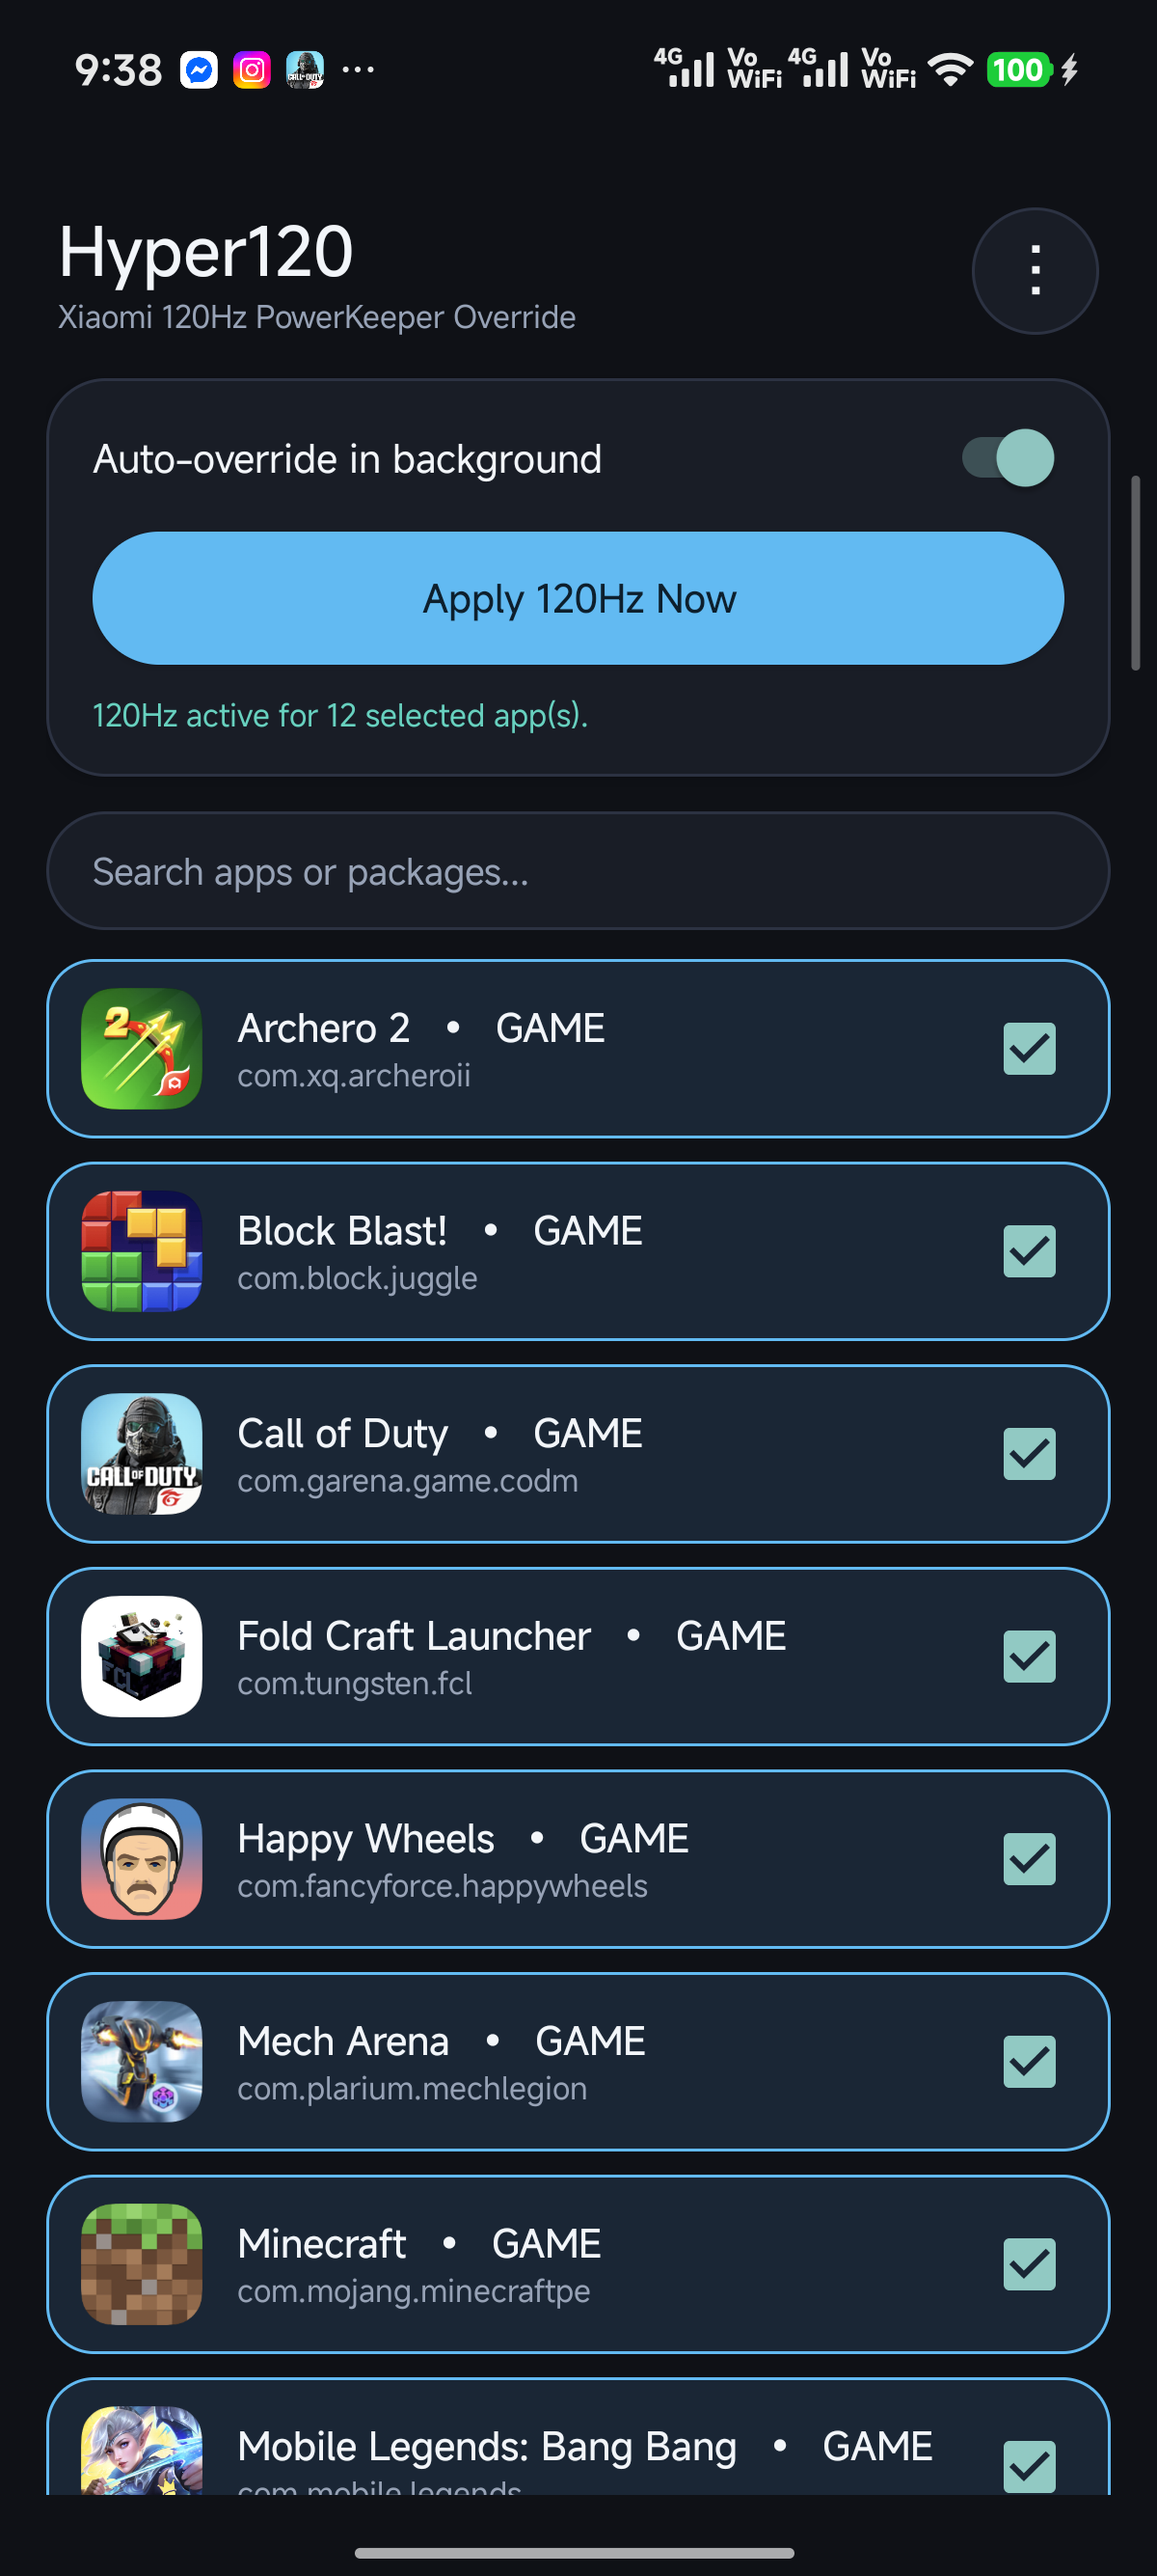
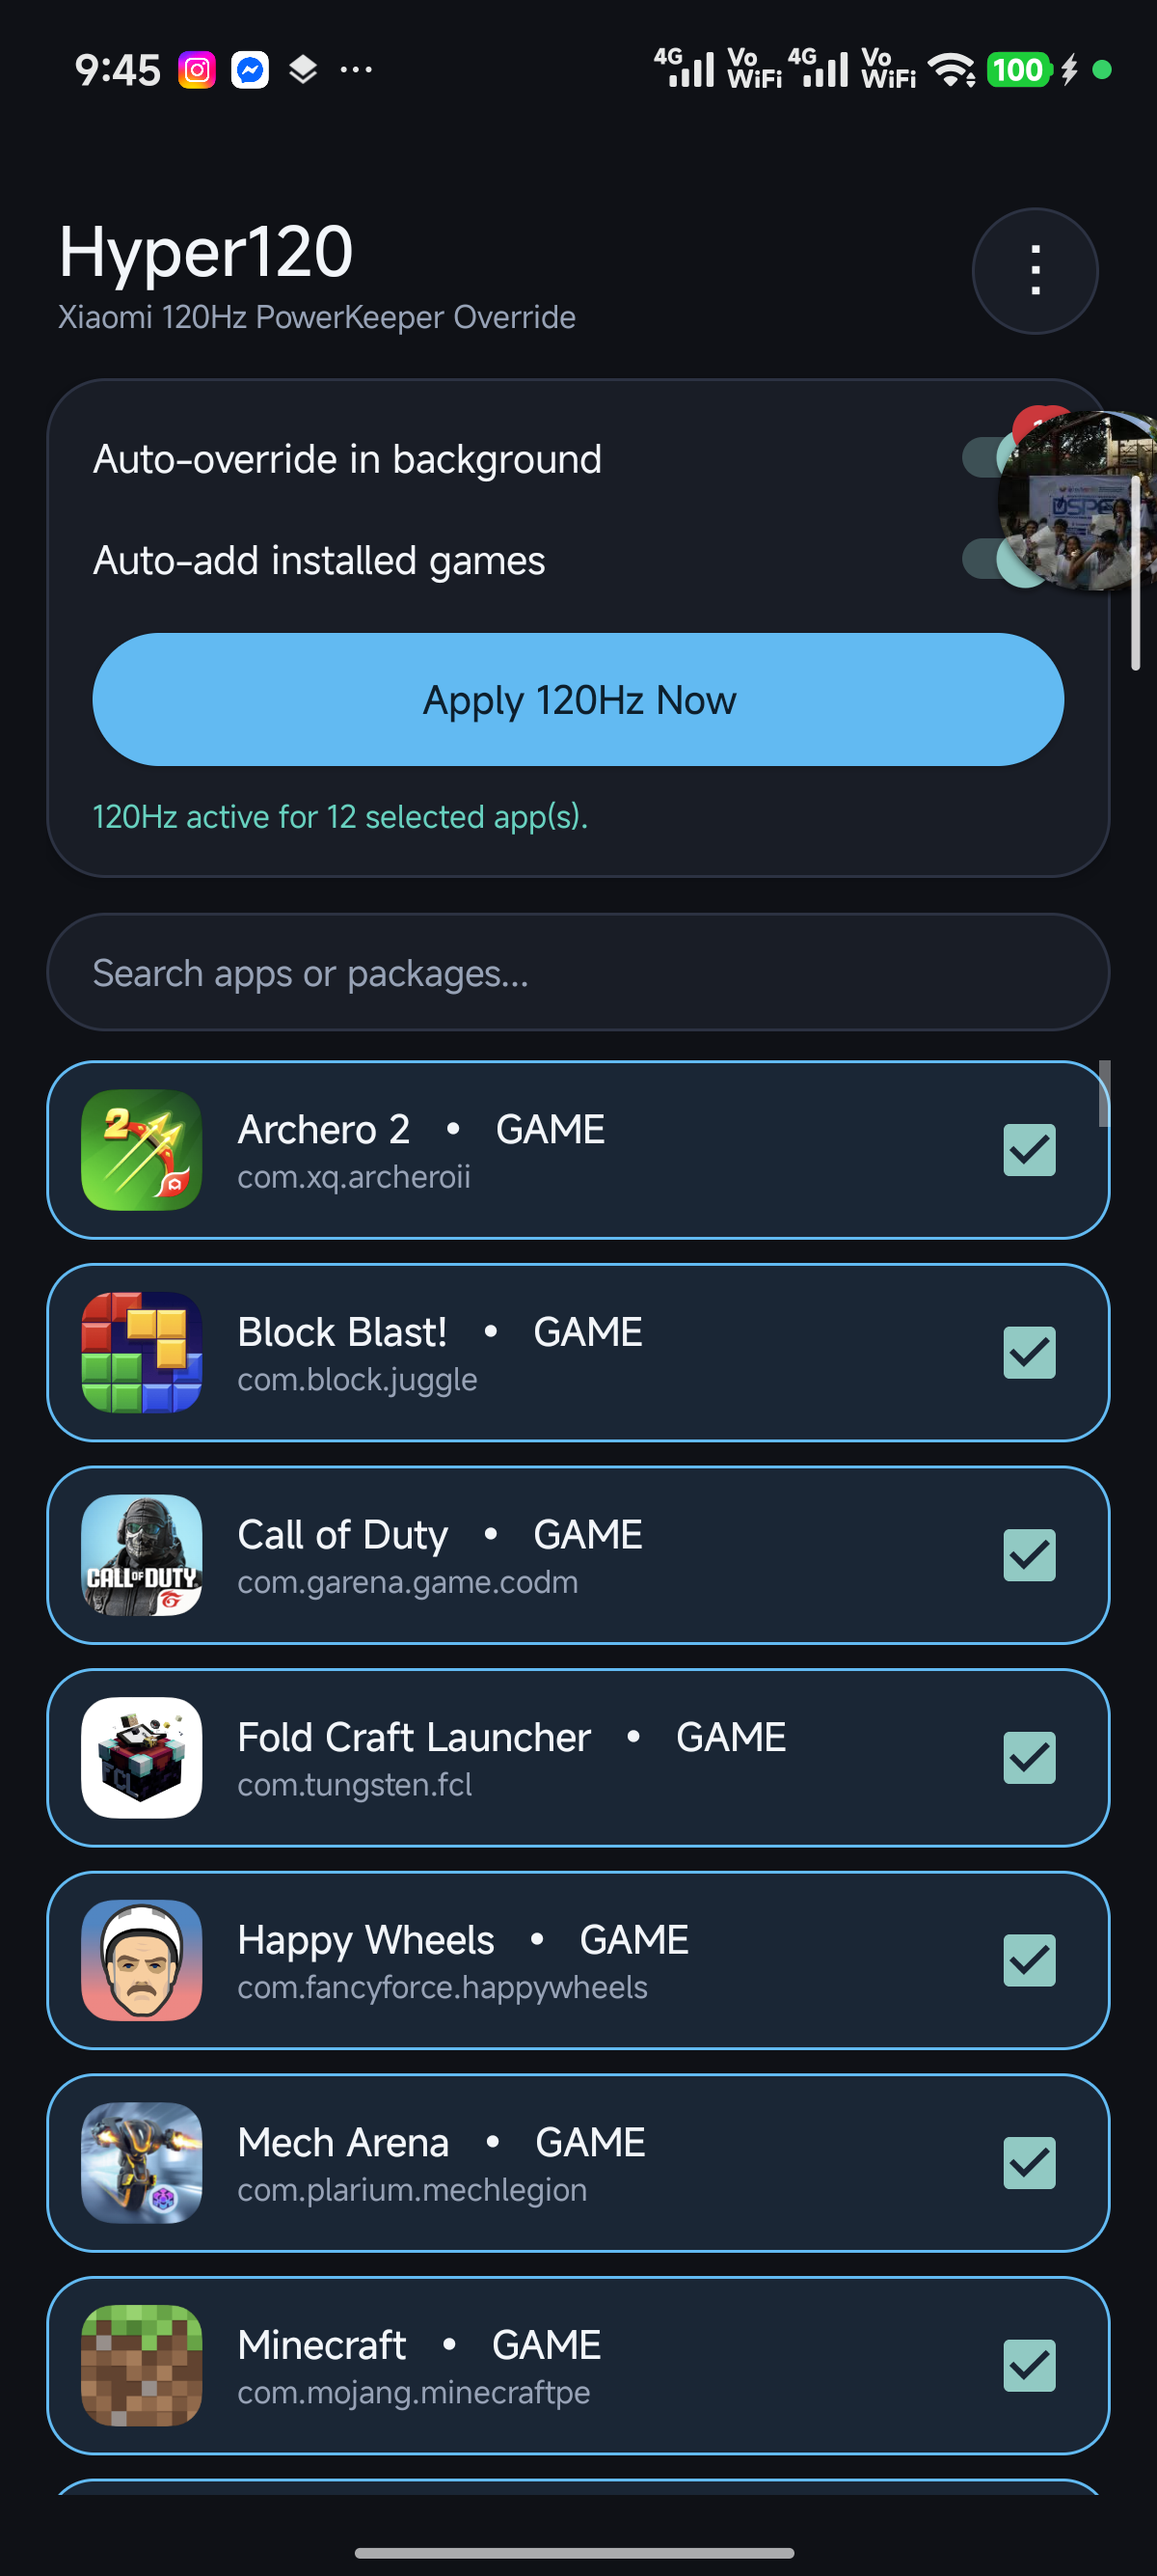
v3.3: Auto-add installed games, install guide, and latest game screenshots

diff --git a/src/com/custom/game120hz/FpsApplier.java b/src/com/custom/game120hz/FpsApplier.java
@@ -3,15 +3,20 @@ package com.custom.game120hz;
 import android.content.Context;
 import android.content.Intent;
 import android.content.SharedPreferences;
+import android.content.pm.ApplicationInfo;
+import android.content.pm.PackageManager;
 import java.util.Arrays;
 import java.util.LinkedHashSet;
+import java.util.List;
 import java.util.Set;
 
-/** Sends Joyose-compatible refresh-rate override broadcasts to PowerKeeper. */
+/** Sends Joyose-compatible refresh-rate override broadcasts to PowerKeeper and auto-detects games. */
 public final class FpsApplier {
     private static final String PREFS = "game_120hz_prefs";
     private static final String KEY_PACKAGES = "packages";
+    private static final String KEY_IGNORED = "ignored_games";
     private static final String KEY_AUTO_ENABLED = "auto_enabled";
+    private static final String KEY_AUTO_ADD_GAMES = "auto_add_games";
     private static final String ACTION_OVERRIDE = "com.xiaomi.joyose.OVERRIDE_GAME_FRESHRATE";
     private static final String POWERKEEPER_PKG = "com.miui.powerkeeper";
 
@@ -39,6 +44,25 @@ public final class FpsApplier {
             .apply();
     }
 
+    public static Set<String> loadIgnoredPackages(Context ctx) {
+        SharedPreferences sp = ctx.getSharedPreferences(PREFS, Context.MODE_PRIVATE);
+        Set<String> ignored = sp.getStringSet(KEY_IGNORED, null);
+        return ignored == null ? new LinkedHashSet<>() : new LinkedHashSet<>(ignored);
+    }
+
+    public static void setPackageIgnored(Context ctx, String pkg, boolean ignored) {
+        Set<String> set = loadIgnoredPackages(ctx);
+        if (ignored) {
+            set.add(pkg);
+        } else {
+            set.remove(pkg);
+        }
+        ctx.getSharedPreferences(PREFS, Context.MODE_PRIVATE)
+            .edit()
+            .putStringSet(KEY_IGNORED, set)
+            .apply();
+    }
+
     public static boolean isAutoEnabled(Context ctx) {
         return ctx.getSharedPreferences(PREFS, Context.MODE_PRIVATE)
             .getBoolean(KEY_AUTO_ENABLED, true);
@@ -49,6 +73,49 @@ public final class FpsApplier {
             .edit()
             .putBoolean(KEY_AUTO_ENABLED, enabled)
             .apply();
+    }
+
+    public static boolean isAutoAddGamesEnabled(Context ctx) {
+        return ctx.getSharedPreferences(PREFS, Context.MODE_PRIVATE)
+            .getBoolean(KEY_AUTO_ADD_GAMES, true);
+    }
+
+    public static void setAutoAddGamesEnabled(Context ctx, boolean enabled) {
+        ctx.getSharedPreferences(PREFS, Context.MODE_PRIVATE)
+            .edit()
+            .putBoolean(KEY_AUTO_ADD_GAMES, enabled)
+            .apply();
+    }
+
+    public static boolean isGameApp(ApplicationInfo ai) {
+        return (ai.category == ApplicationInfo.CATEGORY_GAME)
+            || ((ai.flags & ApplicationInfo.FLAG_IS_GAME) != 0);
+    }
+
+    /** Auto-adds all installed games (unless manually unchecked by user) when enabled. */
+    public static Set<String> syncInstalledGames(Context ctx) {
+        Set<String> pkgs = loadPackages(ctx);
+        if (!isAutoAddGamesEnabled(ctx)) {
+            return pkgs;
+        }
+        Set<String> ignored = loadIgnoredPackages(ctx);
+        PackageManager pm = ctx.getPackageManager();
+        List<ApplicationInfo> apps = pm.getInstalledApplications(0);
+        boolean changed = false;
+        String selfPkg = ctx.getPackageName();
+        for (ApplicationInfo ai : apps) {
+            if (selfPkg.equals(ai.packageName)) continue;
+            if (pm.getLaunchIntentForPackage(ai.packageName) == null) continue;
+            if (isGameApp(ai) && !ignored.contains(ai.packageName)) {
+                if (pkgs.add(ai.packageName)) {
+                    changed = true;
+                }
+            }
+        }
+        if (changed) {
+            savePackages(ctx, pkgs);
+        }
+        return pkgs;
     }
 
     public static void apply120Hz(Context ctx, Set<String> pkgs) {

diff --git a/src/com/custom/game120hz/MainActivity.java b/src/com/custom/game120hz/MainActivity.java
@@ -54,7 +54,7 @@ public class MainActivity extends Activity {
         super.onCreate(savedInstanceState);
         UiHelper.setupDarkBars(this);
 
-        selectedPackages = FpsApplier.loadPackages(this);
+        selectedPackages = FpsApplier.syncInstalledGames(this);
 
         LinearLayout root = new LinearLayout(this);
         root.setOrientation(LinearLayout.VERTICAL);
@@ -128,6 +128,33 @@ public class MainActivity extends Activity {
         toggleRow.addView(autoSwitch);
         card.addView(toggleRow);
 
+        LinearLayout autoAddRow = new LinearLayout(this);
+        autoAddRow.setOrientation(LinearLayout.HORIZONTAL);
+        autoAddRow.setGravity(Gravity.CENTER_VERTICAL);
+        autoAddRow.setPadding(0, dp(8), 0, 0);
+
+        TextView autoAddLabel = new TextView(this);
+        autoAddLabel.setText("Auto-add installed games");
+        autoAddLabel.setTextColor(UiHelper.COL_TEXT);
+        autoAddLabel.setTextSize(15);
+        autoAddLabel.setLayoutParams(new LinearLayout.LayoutParams(
+            0, ViewGroup.LayoutParams.WRAP_CONTENT, 1f));
+        autoAddRow.addView(autoAddLabel);
+
+        Switch autoAddSwitch = new Switch(this);
+        autoAddSwitch.setChecked(FpsApplier.isAutoAddGamesEnabled(this));
+        autoAddSwitch.setOnCheckedChangeListener((btn, isChecked) -> {
+            FpsApplier.setAutoAddGamesEnabled(this, isChecked);
+            if (isChecked) {
+                selectedPackages = FpsApplier.syncInstalledGames(this);
+                loadInstalledApps();
+                filterApps("");
+                applyNow();
+            }
+        });
+        autoAddRow.addView(autoAddSwitch);
+        card.addView(autoAddRow);
+
         Button applyBtn = new Button(this);
         applyBtn.setText("Apply 120Hz Now");
         applyBtn.setAllCaps(false);
@@ -185,8 +212,10 @@ public class MainActivity extends Activity {
             AppEntry entry = filteredApps.get(pos);
             if (selectedPackages.contains(entry.packageName)) {
                 selectedPackages.remove(entry.packageName);
+                FpsApplier.setPackageIgnored(this, entry.packageName, true);
             } else {
                 selectedPackages.add(entry.packageName);
+                FpsApplier.setPackageIgnored(this, entry.packageName, false);
             }
             FpsApplier.savePackages(this, selectedPackages);
             adapter.notifyDataSetChanged();
@@ -225,8 +254,7 @@ public class MainActivity extends Activity {
             if (getPackageName().equals(ai.packageName)) continue;
             String label = pm.getApplicationLabel(ai).toString();
             Drawable icon = pm.getApplicationIcon(ai);
-            boolean isGame = (ai.category == ApplicationInfo.CATEGORY_GAME)
-                || ((ai.flags & ApplicationInfo.FLAG_IS_GAME) != 0);
+            boolean isGame = FpsApplier.isGameApp(ai);
             allApps.add(new AppEntry(label, ai.packageName, icon, isGame));
         }
         Collections.sort(allApps, (a, b) -> {

diff --git a/src/com/custom/game120hz/PackageReceiver.java b/src/com/custom/game120hz/PackageReceiver.java
@@ -1,0 +1,17 @@
+package com.custom.game120hz;
+
+import android.content.BroadcastReceiver;
+import android.content.Context;
+import android.content.Intent;
+import java.util.Set;
+
+/** Automatically detects newly installed games and adds them to the 120Hz override list. */
+public class PackageReceiver extends BroadcastReceiver {
+    @Override
+    public void onReceive(Context context, Intent intent) {
+        if (Intent.ACTION_PACKAGE_ADDED.equals(intent.getAction())) {
+            Set<String> pkgs = FpsApplier.syncInstalledGames(context);
+            FpsApplier.apply120Hz(context, pkgs);
+        }
+    }
+}

diff --git a/src/com/custom/game120hz/BootReceiver.java b/src/com/custom/game120hz/BootReceiver.java
@@ -9,7 +9,7 @@ public class BootReceiver extends BroadcastReceiver {
     @Override
     public void onReceive(Context context, Intent intent) {
         if (Intent.ACTION_BOOT_COMPLETED.equals(intent.getAction())) {
-            FpsApplier.apply120Hz(context, FpsApplier.loadPackages(context));
+            FpsApplier.apply120Hz(context, FpsApplier.syncInstalledGames(context));
             if (FpsApplier.isAutoEnabled(context)) {
                 context.startForegroundService(new Intent(context, Auto120Service.class));
             }

diff --git a/src/com/custom/game120hz/AboutActivity.java b/src/com/custom/game120hz/AboutActivity.java
@@ -72,7 +72,7 @@ public class AboutActivity extends Activity {
         heroCard.addView(appName);
 
         TextView version = new TextView(this);
-        version.setText("v3.2  \u2022  Rootless 120Hz Override");
+        version.setText("v3.3  \u2022  Rootless 120Hz Override");
         version.setTextSize(13);
         version.setTextColor(UiHelper.COL_TEAL);
         version.setPadding(0, dp(4), 0, dp(14));

diff --git a/src/com/custom/game120hz/Auto120Service.java b/src/com/custom/game120hz/Auto120Service.java
@@ -56,7 +56,7 @@ public class Auto120Service extends Service {
 
     @Override
     public int onStartCommand(Intent intent, int flags, int startId) {
-        FpsApplier.apply120Hz(this, FpsApplier.loadPackages(this));
+        FpsApplier.apply120Hz(this, FpsApplier.syncInstalledGames(this));
         return START_STICKY;
     }
 

diff --git a/README.md b/README.md
@@ -10,9 +10,29 @@ Unlike other workarounds that force you to disable `com.miui.powerkeeper` (hurti
 
 - **No Root Required:** Installs like a normal Android app.
 - **No PC Needed After Install:** Runs on-device, auto-starts on boot (`BOOT_COMPLETED`), and keeps your 120Hz overrides active in the background.
+- **Auto-Add Installed Games:** Automatically detects existing and newly installed games (`PACKAGE_ADDED`) and adds them to 120Hz (while remembering any game you manually uncheck).
 - **Zero Normal-Use Battery Trade-off:** PowerKeeper stays enabled and adaptive refresh rate still drops to 60Hz/idle in regular apps.
 - **Consistent Against Resets:** Periodically refreshes PowerKeeper's `mPrivGames` map while your screen is on so games stay locked at 120Hz.
 - **Simple App Picker:** Search and check any installed game or app — no manual package typing or ADB commands required.
+
+---
+
+## How to Install
+
+### Option A: Directly on Your Phone (No PC)
+1. Download **`Hyper120.apk`** from the [Releases](https://github.com/Rohan-Reyes/Hyper120/releases) page.
+2. Open the downloaded APK and allow **Install from unknown sources** if prompted.
+3. Launch **Hyper120** — it automatically detects your installed games and applies 120Hz.
+4. *(Recommended on HyperOS / MIUI)* Long-press **Hyper120** → **App info**:
+   * Enable **Autostart**
+   * Set **Battery saver** to **No restrictions**
+
+### Option B: Via ADB (Optional)
+```bash
+adb install -r Hyper120.apk
+adb shell dumpsys deviceidle whitelist +com.custom.game120hz
+adb shell appops set com.custom.game120hz RUN_ANY_IN_BACKGROUND allow
+```
 
 ---
 
@@ -22,9 +42,15 @@ Unlike other workarounds that force you to disable `com.miui.powerkeeper` (hurti
 | :---: | :---: |
 | <img src="assets/ui-main.png" width="320" alt="Hyper120 Main UI" /> | <img src="assets/ui-about.png" width="320" alt="Hyper120 About Page" /> |
 
-### In-Game (Mobile Legends: Bang Bang)
+### Recent In-Game Screenshots
 
-<img src="assets/ingame-mlbb.png" width="720" alt="Mobile Legends running with Hyper120 active" />
+| Mobile Legends: Bang Bang | Call of Duty: Mobile |
+| :---: | :---: |
+| <img src="assets/game-mlbb.jpg" width="420" alt="Mobile Legends running with Hyper120" /> | <img src="assets/game-codm.jpg" width="420" alt="Call of Duty Mobile running with Hyper120" /> |
+
+| Minecraft | Archero 2 |
+| :---: | :---: |
+| <img src="assets/game-minecraft.jpg" width="420" alt="Minecraft running with Hyper120" /> | <img src="assets/game-archero2.jpg" width="420" alt="Archero 2 running with Hyper120" /> |
 
 ---
 
